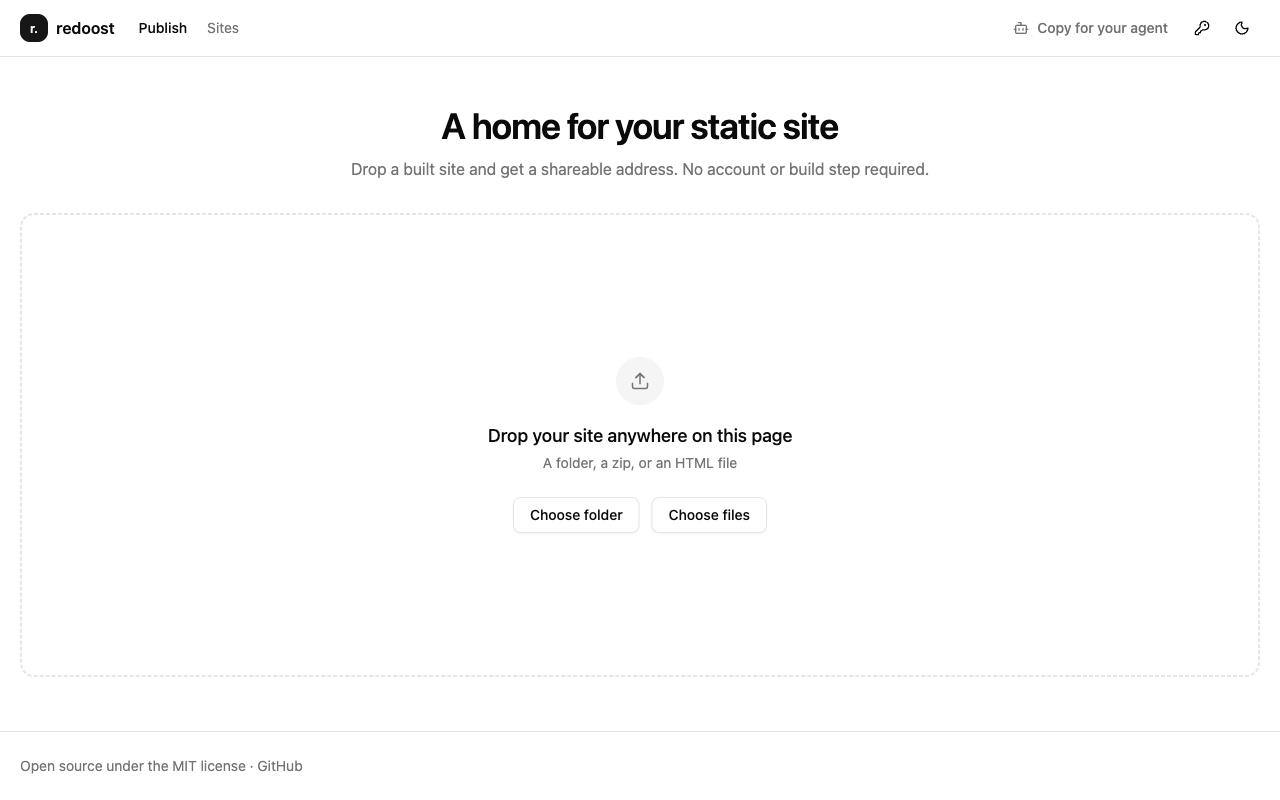
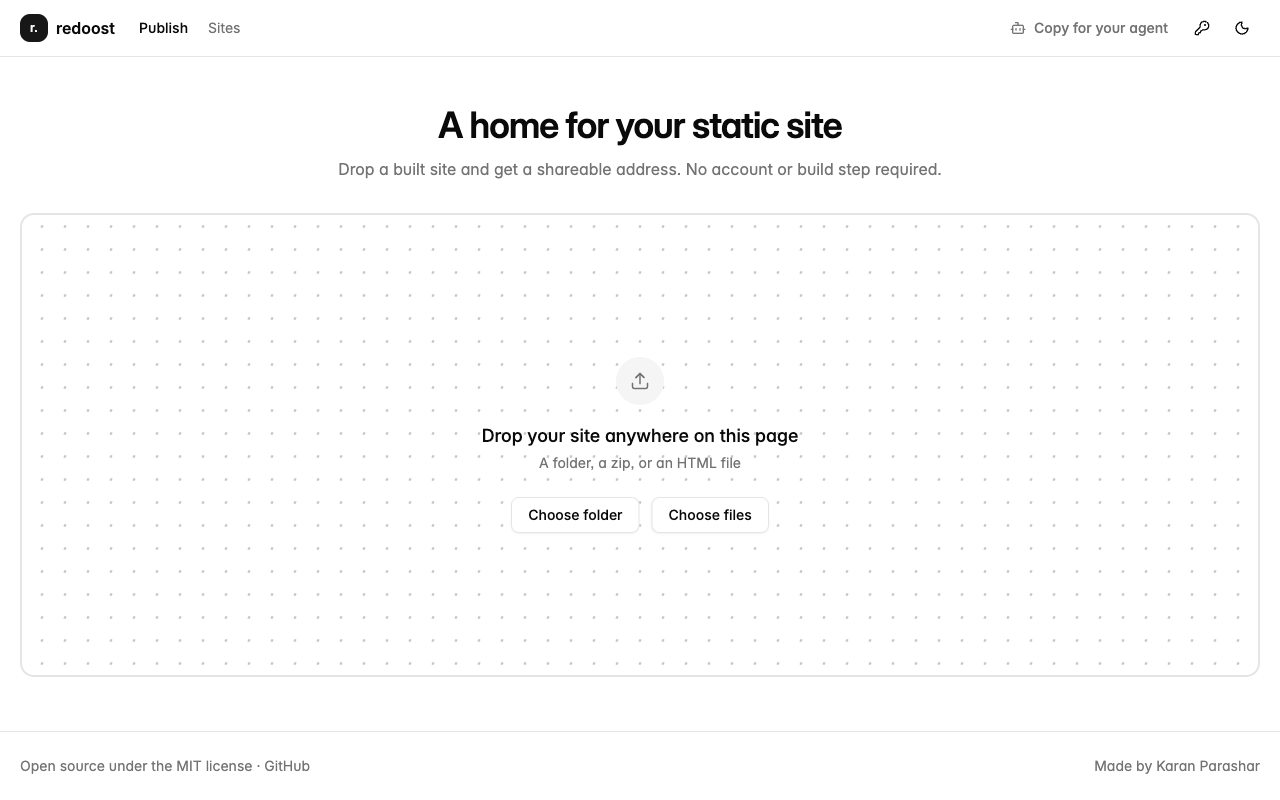
feat: Show the version in the dashboard and /health

diff --git a/frontend/src/routes/__root.tsx b/frontend/src/routes/__root.tsx
@@ -90,7 +90,8 @@ function Layout() {
               rel="noreferrer"
             >
               GitHub
-            </a>
+            </a>{" "}
+            · {import.meta.env.VITE_VERSION ?? "dev"}
           </p>
           <p className="whitespace-nowrap">
             Made by{" "}

diff --git a/backend/src/main.py b/backend/src/main.py
@@ -23,6 +23,7 @@ class HealthResponse(BaseModel):
     status: Literal["ok", "unavailable"] = Field(
         description="Whether the database and S3 are reachable"
     )
+    version: str = Field(description="Deployed version, e.g. 0.1.6-abc1234")
 
 
 @app.get("/health", response_model=HealthResponse)
@@ -30,8 +31,13 @@ async def health() -> HealthResponse | JSONResponse:
     try:
         await asyncio.gather(check_database(), check_storage())
     except BotoCoreError, ClientError, ConnectionError, SQLAlchemyError:
-        return JSONResponse(status_code=503, content={"status": "unavailable"})
-    return HealthResponse(status="ok")
+        return JSONResponse(
+            status_code=503,
+            content=HealthResponse(
+                status="unavailable", version=settings.version
+            ).model_dump(),
+        )
+    return HealthResponse(status="ok", version=settings.version)
 
 
 if __name__ == "__main__":

diff --git a/backend/tests/test_health.py b/backend/tests/test_health.py
@@ -19,7 +19,7 @@ def test_health_when_dependencies_are_available(
     response = client.get("/health")
 
     assert response.status_code == 200
-    assert response.json() == {"status": "ok"}
+    assert response.json() == {"status": "ok", "version": "dev"}
 
 
 def test_health_when_s3_is_unavailable(
@@ -29,4 +29,4 @@ def test_health_when_s3_is_unavailable(
     response = client.get("/health")
 
     assert response.status_code == 503
-    assert response.json() == {"status": "unavailable"}
+    assert response.json() == {"status": "unavailable", "version": "dev"}

diff --git a/backend/src/config.py b/backend/src/config.py
@@ -11,6 +11,7 @@ class Settings(BaseSettings):
     log_level: Literal["INFO", "VERBOSE"] = Field(description="Log verbosity")
     app_origin: str = Field(description="Frontend origin allowed to upload to S3")
     reload: bool = Field(default=False, description="Reload the API on code changes")
+    version: str = Field(default="dev", description="Version reported by /health")
     database_url: str = Field(
         default="sqlite+aiosqlite:///./redoost.db",
         description="Async SQLAlchemy database URL",

diff --git a/README.md b/README.md
@@ -94,10 +94,11 @@ helm install redoost ./chart -f values.yaml
 
 Pushes that change the backend or frontend build both images for amd64 and
 arm64 and publish them to `ghcr.io/whyredfire/redoost-api` and
-`redoost-frontend`, tagged `sha-<commit>` and `latest`. Running the `release`
-workflow tags the latest images with the version and commits that tag to
-`chart/values.yaml`, so anything deploying the chart from `main` rolls out on
-releases only.
+`redoost-frontend`, tagged `latest` and with the last release and commit, e.g.
+`0.1.6-abc1234`. Running the `release` workflow builds both images again tagged
+with the version, then commits that tag to `chart/values.yaml`, so anything
+deploying the chart from `main` rolls out on releases only. Each image reports
+the version it was built with, in the dashboard footer and from `/health`.
 
 See [`chart/values.yaml`](chart/values.yaml) for all settings. By default the
 API uses SQLite on a volume, so it runs as a single replica with the `Recreate`
